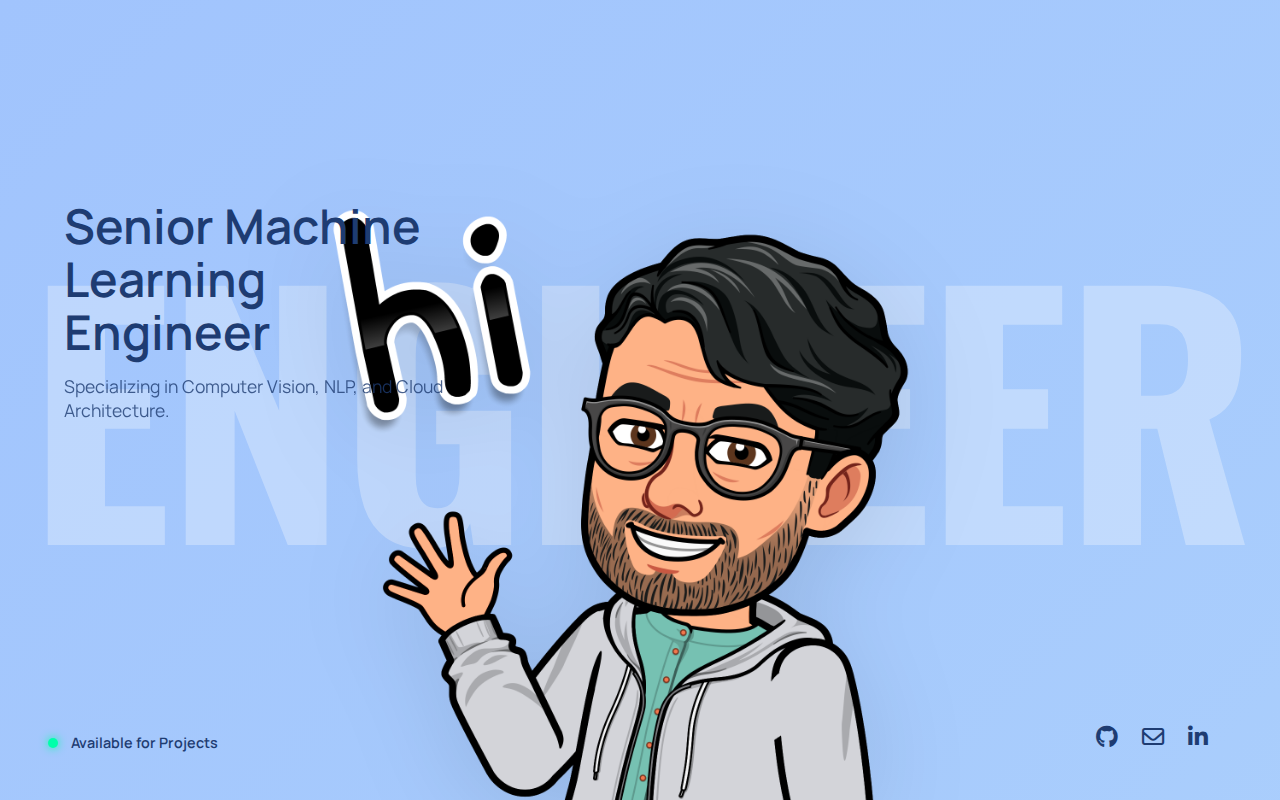
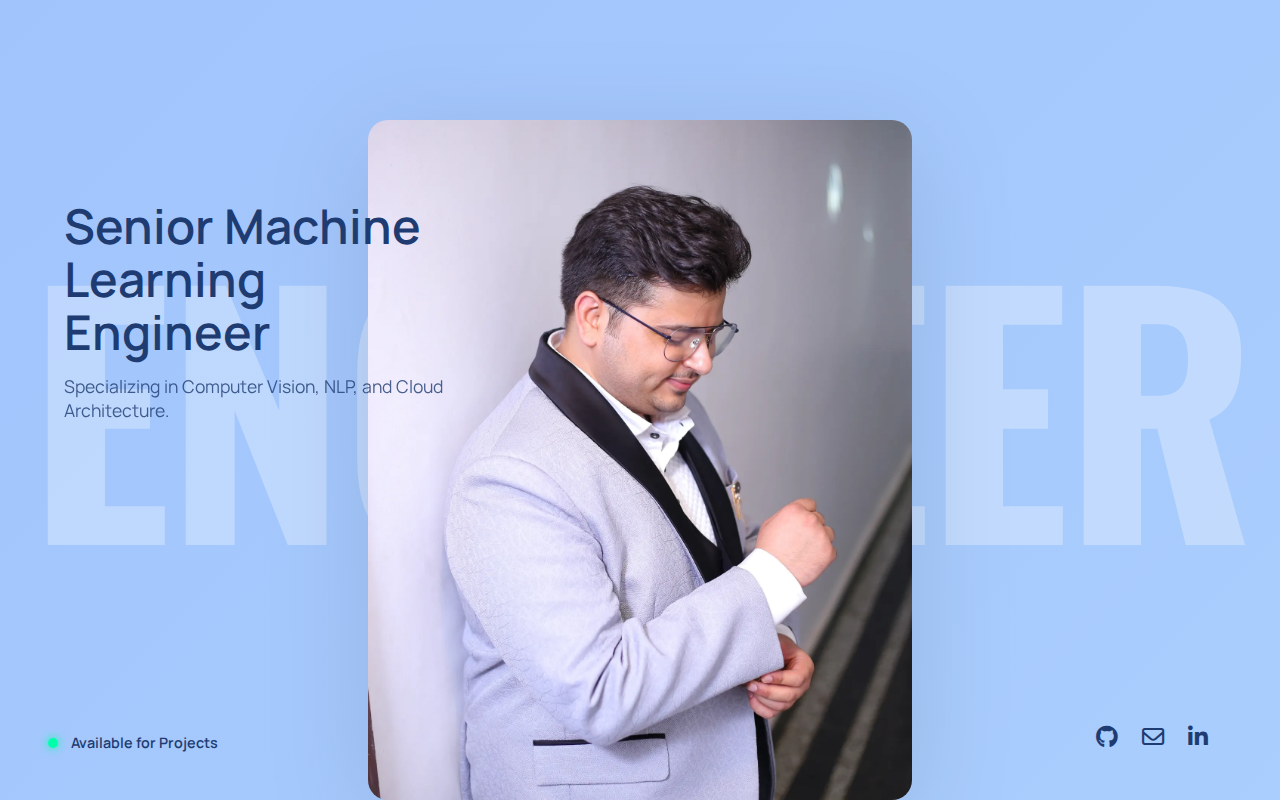
Fix CSS loading path and update hero image in Modern V2

diff --git a/docs/index.html b/docs/index.html
@@ -14,7 +14,7 @@
     <link rel="stylesheet" href="https://cdnjs.cloudflare.com/ajax/libs/font-awesome/6.4.0/css/all.min.css">
 
     <!-- CSS -->
-    <link rel="stylesheet" href="style/style.css">
+    <link rel="stylesheet" href="./style/style.css">
 </head>
 <body>
 
@@ -61,7 +61,7 @@
 
                 <!-- Main Subject Image -->
                 <div class="hero-image-wrapper">
-                    <img src="resources/images/main_splash.png" alt="Anubhav Tiwari" class="hero-image">
+                    <img src="resources/images/banner_img.jpg" alt="Anubhav Tiwari" class="hero-image">
                 </div>
 
                 <!-- Overlay Elements -->

diff --git a/docs/style/style.css b/docs/style/style.css
@@ -210,6 +210,8 @@ body, html {
     width: auto;
     object-fit: contain;
     filter: drop-shadow(0 20px 50px rgba(0,0,0,0.1));
+    mix-blend-mode: multiply; /* Helps blend the JPG background with the blue theme */
+    border-radius: 20px; /* Soften edges if it's a rectangle */
 }
 
 .hero-overlay {
